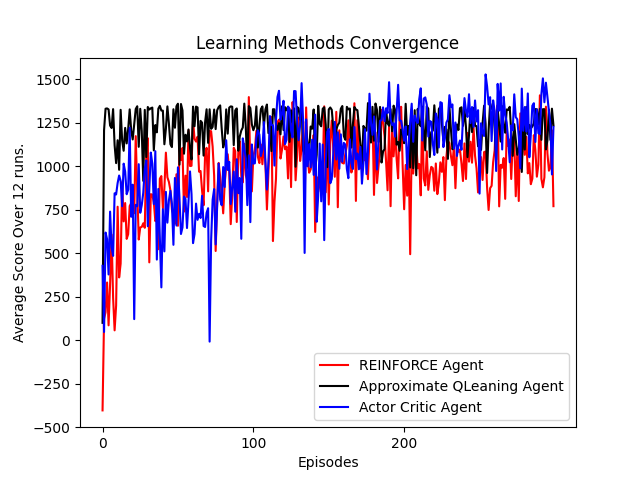
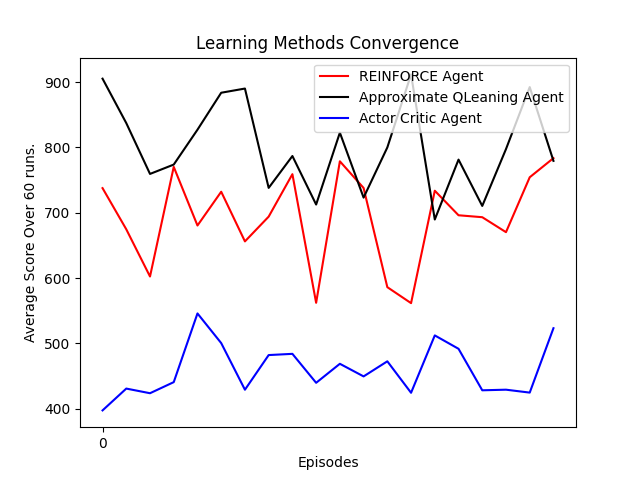
Updated stats_multi.py

diff --git a/src/stats_multi.py b/src/stats_multi.py
@@ -5,15 +5,29 @@ import numpy as np
 import os
 from scipy import stats
 from itertools import combinations
+import random
 
-episodeCount = 300
-trainEpisodes = 0
-randomLayout = "mediumClassic"
+filenames=os.listdir("layouts")
+val2=[]
+layouts=[]
+for f in filenames:
+    val2 = (f.replace(".lay",""))
+    layouts.append(val2)
+float_listr=[]
+
+episodeCount = 100
+trainEpisodes = 00
+randomLayout = random.choice(layouts)
+numberOfGhosts = random.randrange(1, 5, 1)
+outputFileName = "random3"
 
 def reinforceAgent(numOfRuns, results):
     command= [
-        "python pacman.py -p ReinforceAgent -n {0} -x {1} -a alpha=0.2,gamma=0.8 -q -l {2}".format(episodeCount, trainEpisodes, randomLayout)
+        "python pacman.py -p ReinforceAgent -n {0} -x {1} -a alpha=0.2,gamma=0.8 -q -l {2} ".format(episodeCount, trainEpisodes, randomLayout)
     ]
+
+    if numberOfGhosts is not None:
+        command.append(f"-g {numberOfGhosts}")
 
     for i in range(numOfRuns):
         result = subprocess.run(command, stdout=subprocess.PIPE, stderr=subprocess.PIPE, shell=True)
@@ -36,6 +50,9 @@ def qLearningAgent(numOfRuns, results):
         "python pacman.py -p ApproximateQAgent -a extractor=SimpleExtractor -n {0} -x {1} -q -l {2}".format(episodeCount, trainEpisodes, randomLayout)
     ]
 
+    if numberOfGhosts is not None:
+        command.append(f"-g {numberOfGhosts}")
+
     for i in range(numOfRuns):
         result = subprocess.run(command, stdout=subprocess.PIPE, stderr=subprocess.PIPE, shell=True)
         print("ApproximateQAgent stderr: ", result.stderr)
@@ -56,6 +73,9 @@ def actorCriticAgent(numOfRuns, results):
     command= [
         "python pacman.py -p ActorCriticAgent -n {0} -x {1} -a alpha_theta=0.25,alpha_w=0.15,gamma=0.9 -q -l {2}".format(episodeCount, trainEpisodes, randomLayout)
     ]
+
+    if numberOfGhosts is not None:
+        command.append(f"-g {numberOfGhosts}")
 
     for i in range(numOfRuns):
         result = subprocess.run(command, stdout=subprocess.PIPE, stderr=subprocess.PIPE, shell=True)
@@ -93,7 +113,7 @@ def finalttest(data_dict, alpha=0.05):
     return results
 
 def main():
-    numOfRuns = 200
+    numOfRuns = 48
     maxThreads = os.cpu_count()
     agentFunctions = [reinforceAgent, qLearningAgent, actorCriticAgent]
     results = []
@@ -101,7 +121,7 @@ def main():
     print("Cores: ", maxThreads, "\nRuns Per Core: ", round(numOfRuns / maxThreads))
 
     for function in agentFunctions:
-        functionResults = [0] * episodeCount
+        functionResults = [0] * (episodeCount - trainEpisodes)
         numOfRunsPerCore = round(numOfRuns / maxThreads)
 
         allocatedRuns = 0
@@ -126,13 +146,12 @@ def main():
     plt.plot(i,results[1],'k',label="Approximate QLeaning Agent")
     plt.plot(i,results[2],'b',label="Actor Critic Agent")
 
-    plt.title('Learning Methods Convergence')
-    plt.xticks(i[::100])
+    plt.title(f'Learning Methods Convergence on {randomLayout} Layout with {numberOfGhosts} Ghosts')
+    plt.xticks(i[::int(round((episodeCount - trainEpisodes)/4))])
     plt.xlabel('Episodes')
     plt.ylabel(f'Average Score Over {numOfRuns} runs.')
     plt.legend()
-    plt.savefig('learning_methods.png')
-    plt.savefig("../analysis/convergence.png")
+    plt.savefig(f"../analysis/{outputFileName}.png")
 
     #################################
     # T-test Statistics
